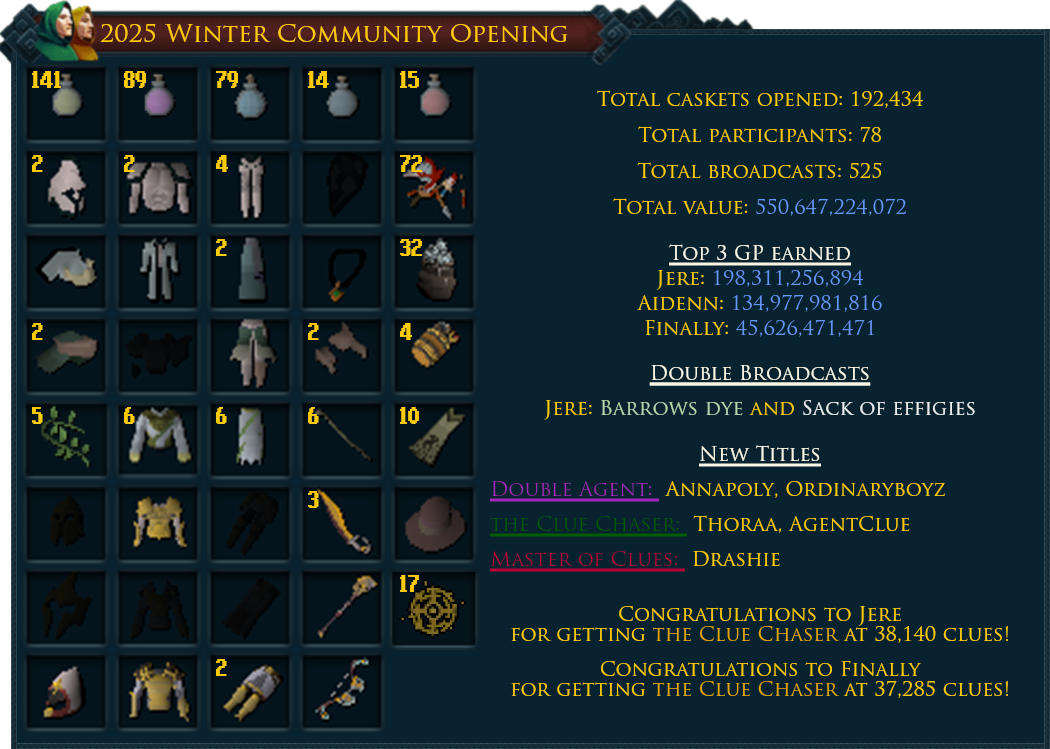
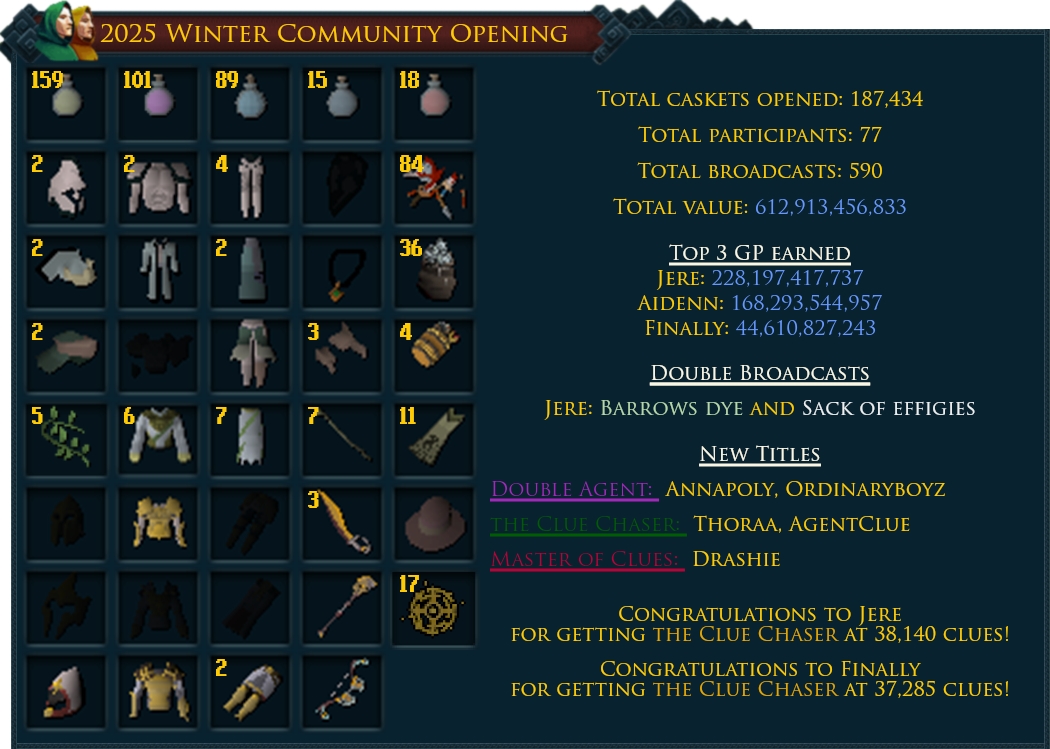
final 2025 winter opening image

diff --git a/community_opening.ts b/community_opening.ts
@@ -29,31 +29,31 @@ GlobalFonts.registerFromPath(`./Fonts/trajan-pro\\TrajanPro-Regular.ttf`, 'traja
 GlobalFonts.registerFromPath(`.\\Fonts\\runescape_uf\\runescape_uf.ttf`, 'runescape');
 
 /* paste here */
-broadcasts.get(`Barrows dye`).data = {count: 141, value: 129164090};
-broadcasts.get(`Shadow dye`).data = {count: 89, value: 1150000000};
-broadcasts.get(`Ice dye`).data = {count: 79, value: 1050000000};
-broadcasts.get(`Third Age dye`).data = {count: 14, value: 10000000000};
-broadcasts.get(`Blood dye`).data = {count: 15, value: 11500000000};
+broadcasts.get(`Barrows dye`).data = {count: 159, value: 123632255};
+broadcasts.get(`Shadow dye`).data = {count: 101, value: 1150000000};
+broadcasts.get(`Ice dye`).data = {count: 89, value: 1050000000};
+broadcasts.get(`Third Age dye`).data = {count: 15, value: 10000000000};
+broadcasts.get(`Blood dye`).data = {count: 18, value: 11000000000};
 broadcasts.get(`Third age full helmet`).data = {count: 2, value: 219268833};
 broadcasts.get(`Third age platebody`).data = {count: 2, value: 449992479};
 broadcasts.get(`Third age platelegs`).data = {count: 4, value: 811032052};
 broadcasts.get(`Third age kiteshield`).data = {count: 0, value: 234190472};
-broadcasts.get(`Backstab cape`).data = {count: 72, value: 2115896};
-broadcasts.get(`Third age mage hat`).data = {count: 1, value: 200041007};
+broadcasts.get(`Backstab cape`).data = {count: 84, value: 2115896};
+broadcasts.get(`Third age mage hat`).data = {count: 2, value: 200041007};
 broadcasts.get(`Third age robe top`).data = {count: 1, value: 223160633};
 broadcasts.get(`Third age robe`).data = {count: 2, value: 202533744};
 broadcasts.get(`Third age amulet`).data = {count: 1, value: 462878166};
-broadcasts.get(`Sack of effigies`).data = {count: 32, value: 2039460};
+broadcasts.get(`Sack of effigies`).data = {count: 36, value: 2039460};
 broadcasts.get(`Third age ranger coif`).data = {count: 2, value: 198616683};
 broadcasts.get(`Third age ranger body`).data = {count: 0, value: 199172294};
 broadcasts.get(`Third age ranger chaps`).data = {count: 1, value: 196690108};
-broadcasts.get(`Third age vambraces`).data = {count: 2, value: 202412479};
+broadcasts.get(`Third age vambraces`).data = {count: 3, value: 202412479};
 broadcasts.get(`Explosive barrel`).data = {count: 4, value: 43415769};
 broadcasts.get(`Third age druidic wreath`).data = {count: 5, value: 521002145};
 broadcasts.get(`Third age druidic robe top`).data = {count: 6, value: 229191211};
-broadcasts.get(`Third age druidic robe bottom`).data = {count: 6, value: 194573379};
-broadcasts.get(`Third age druidic staff`).data = {count: 6, value: 190480470};
-broadcasts.get(`Third age druidic cloak`).data = {count: 10, value: 199784979};
+broadcasts.get(`Third age druidic robe bottom`).data = {count: 7, value: 194573379};
+broadcasts.get(`Third age druidic staff`).data = {count: 7, value: 190480470};
+broadcasts.get(`Third age druidic cloak`).data = {count: 11, value: 199784979};
 broadcasts.get(`Second-Age full helm`).data = {count: 0, value: 160262136};
 broadcasts.get(`Second-Age platebody`).data = {count: 1, value: 534532453};
 broadcasts.get(`Second-Age platelegs`).data = {count: 0, value: 793611791};
@@ -69,9 +69,9 @@ broadcasts.get(`Second-Age range top`).data = {count: 1, value: 254542691};
 broadcasts.get(`Second-Age range legs`).data = {count: 2, value: 270877801};
 broadcasts.get(`Second-Age bow`).data = {count: 1, value: 253547630};
 broadcasts.get(`Blank`).data = {count: 0, value: 0};
-const topGP = [{name: 'Jere', gp: 198311256894}, {name: 'Aidenn', gp: 134977981816}, {name: 'Finally', gp: 45626471471}];
-const totalCaskets = 192434;
-const totalParticipants = 78;
+const topGP = [{name: 'Jere', gp: 228197417737}, {name: 'Aidenn', gp: 168293544957}, {name: 'Finally', gp: 44610827243}];
+const totalCaskets = 187434;
+const totalParticipants = 77;
 doubleBroadcasts.push({name: 'Jere', item1: 'Barrows dye', item2: 'Sack of effigies'});
 ClueTitles.master.base.list.push('Drashie');
 ClueTitles.hard.base.list.push('Annapoly');
